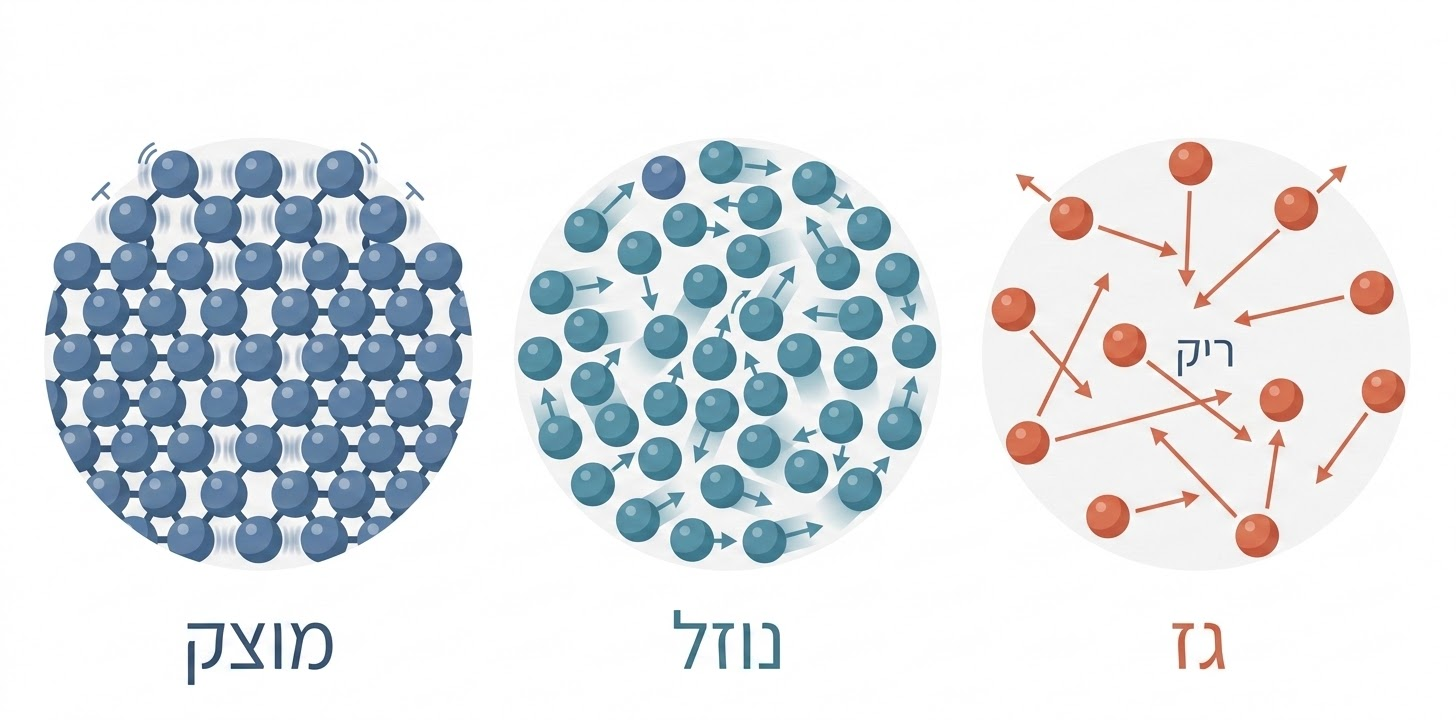
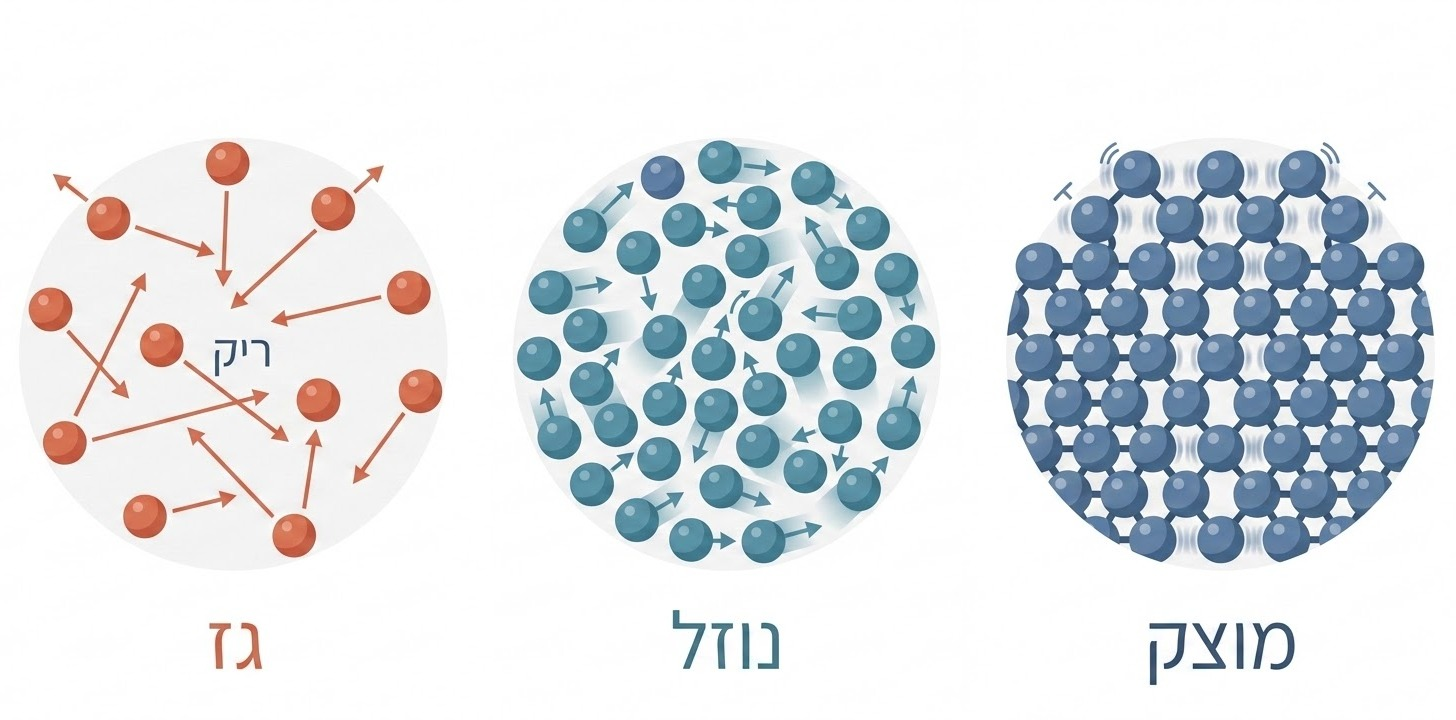
Particle model lesson: title, picture order (solid on the right, as in the table), course renamed מדעים לכיתה ז' (Gil)

diff --git a/lessons/particle-model-teaching-1/lesson.md b/lessons/particle-model-teaching-1/lesson.md
@@ -1,5 +1,5 @@
 ---
-title: מודל החלקיקים של החומר: חזרה על השיעור
+title: מודל החלקיקים של החומר
 language: he
 subject: מדעים
 grade: 7
@@ -11,10 +11,6 @@ status: draft 1 (converted from Gil's Word document "מודל החלקיקים" 
 ---
 
 # שאלות של Claude לגיל
-
-> 🟦 Claude: **1. השורה "מה אפשר לדמיין" בטבלה הייתה הפוכה.** במסמך, תחת "מוצק" היו כדורי הפינג פונג שעפים לכל הכיוונים (זה מתאים לגז), ותחת "גז" הייתה הרשת עם הכדורים בצמתים (זה מתאים למוצק). החלפתי ביניהם. האם זה נכון?
-
-> 🟦 Claude: **3. הכותרת.** הכותרת במסמך היא "מודל החלקיקים של החומר: חזרה על השיעור", אבל זה שיעור הקניה, הראשון בקורס. להשאיר "חזרה על השיעור", או לקצר ל"מודל החלקיקים של החומר"?
 
 > 🟦 Claude: **4. תיקוני הקלדה בטקסט שלך:** "כוחות קצת יותר חלקים" ← "חלשים"; "הגולות יהיו חופשיות לנוע זה ביחס לזה" ← "זו ביחס לזו"; "בינהם" ← "ביניהם"; "אויר" ← "אוויר"; "כח" ← "כוח". בטבלה החלפתי "כוח המשיכה" (של כדור הארץ, בשורת "צורת החומר") ב"כוח הכבידה", כדי שלא יתבלבל עם כוחות המשיכה בין החלקיקים, כמו בטקסט שלך על הגז.
 
@@ -193,7 +189,7 @@ status: draft 1 (converted from Gil's Word document "מודל החלקיקים" 
 
 - file: images/states-of-matter.jpg
 - caption: החלקיקים במוצק, בנוזל ובגז (איור)
-- source: AI-generated
+- source: AI-generated (the order of the three pictures was changed by Claude, so solid is on the right, as in the table)
 
 ## [QUESTION: multiple choice] [LEVEL 1] [NEW: suggested by Claude]
 

diff --git a/courses/density-demo.md b/courses/density-demo.md
@@ -1,5 +1,5 @@
 ---
-title: מדעים: צפיפות
+title: מדעים לכיתה ז'
 language: he
 subject: מדעים
 grade: 7
